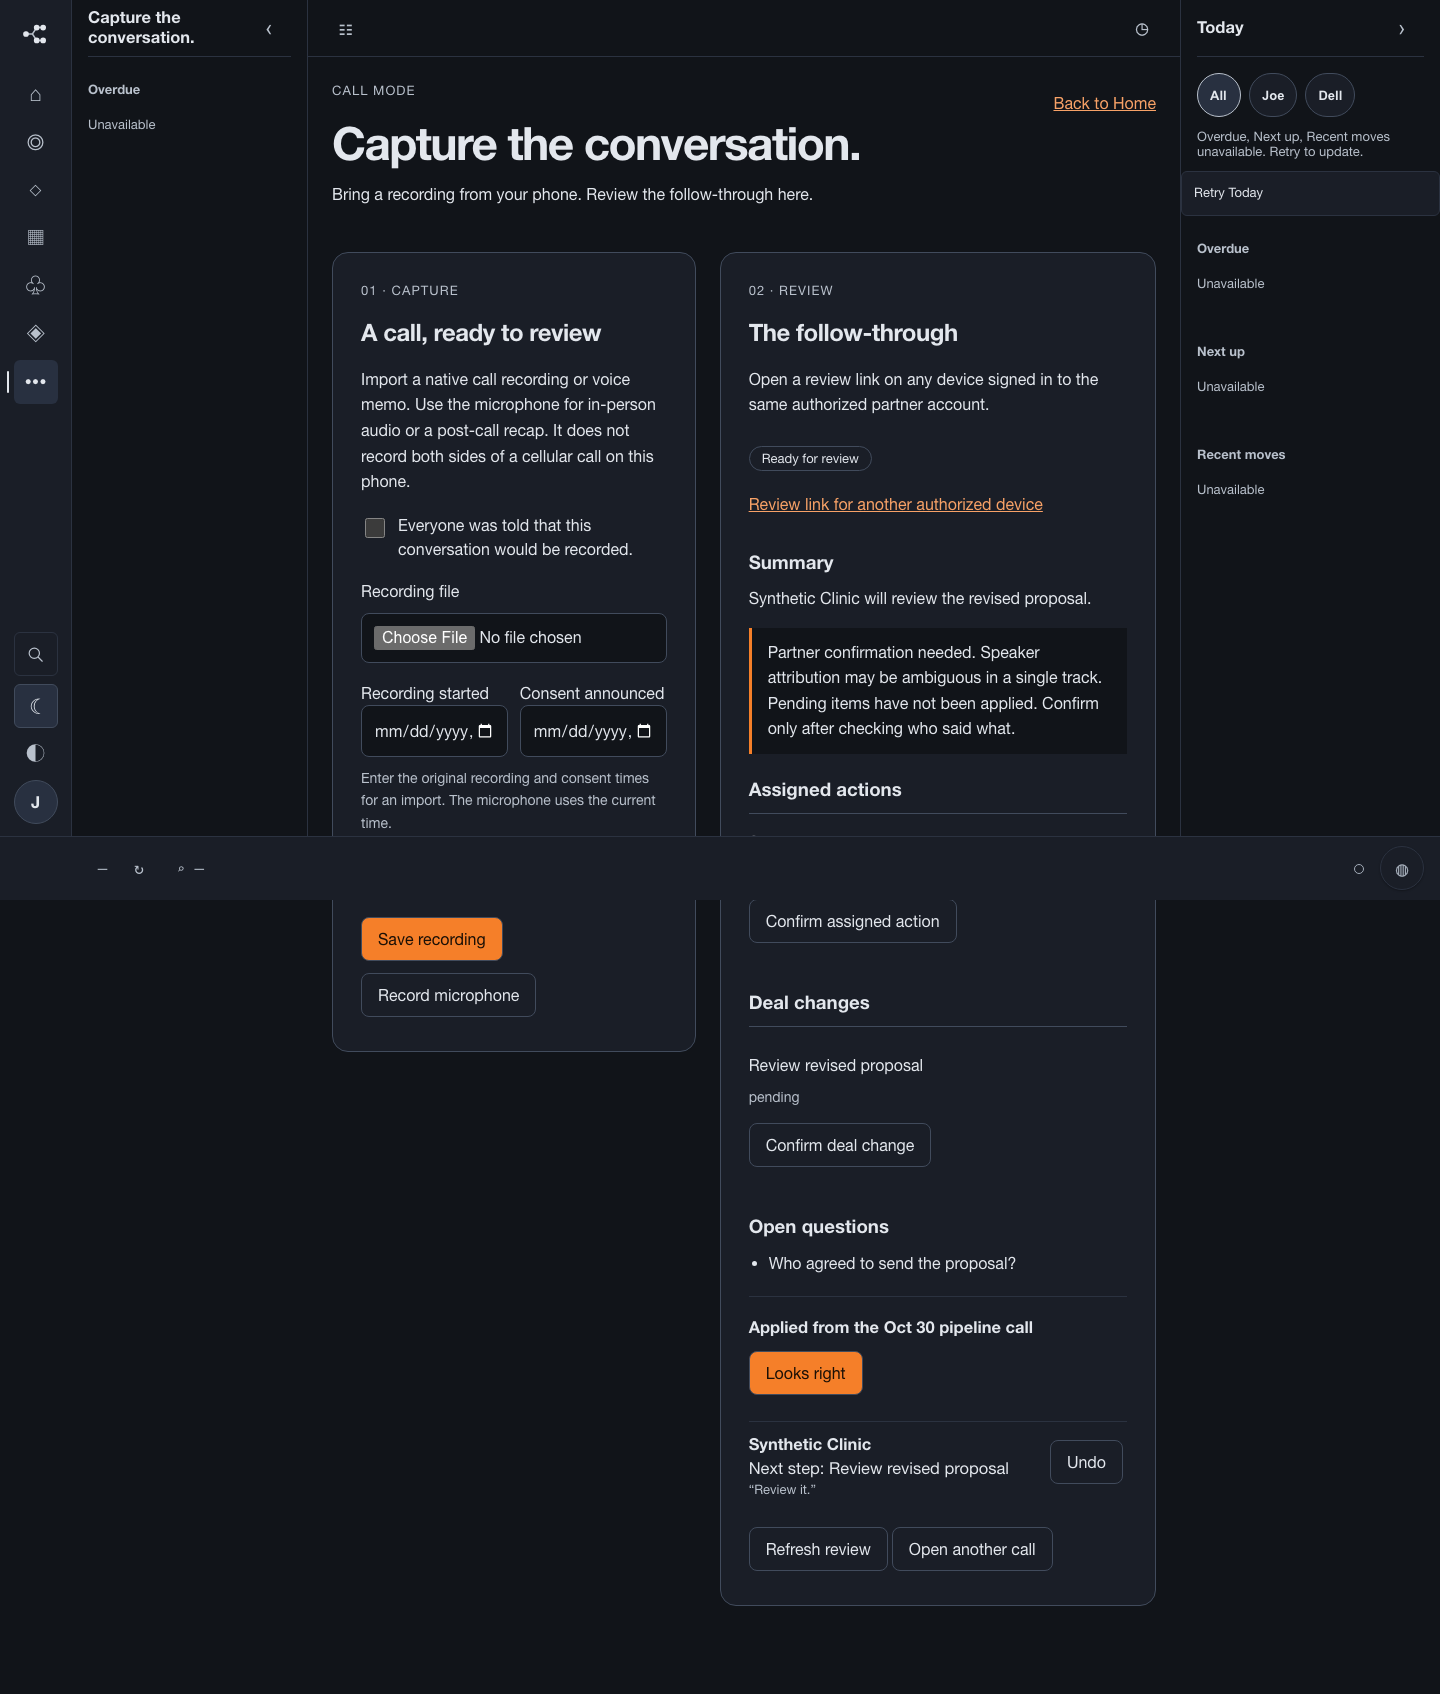
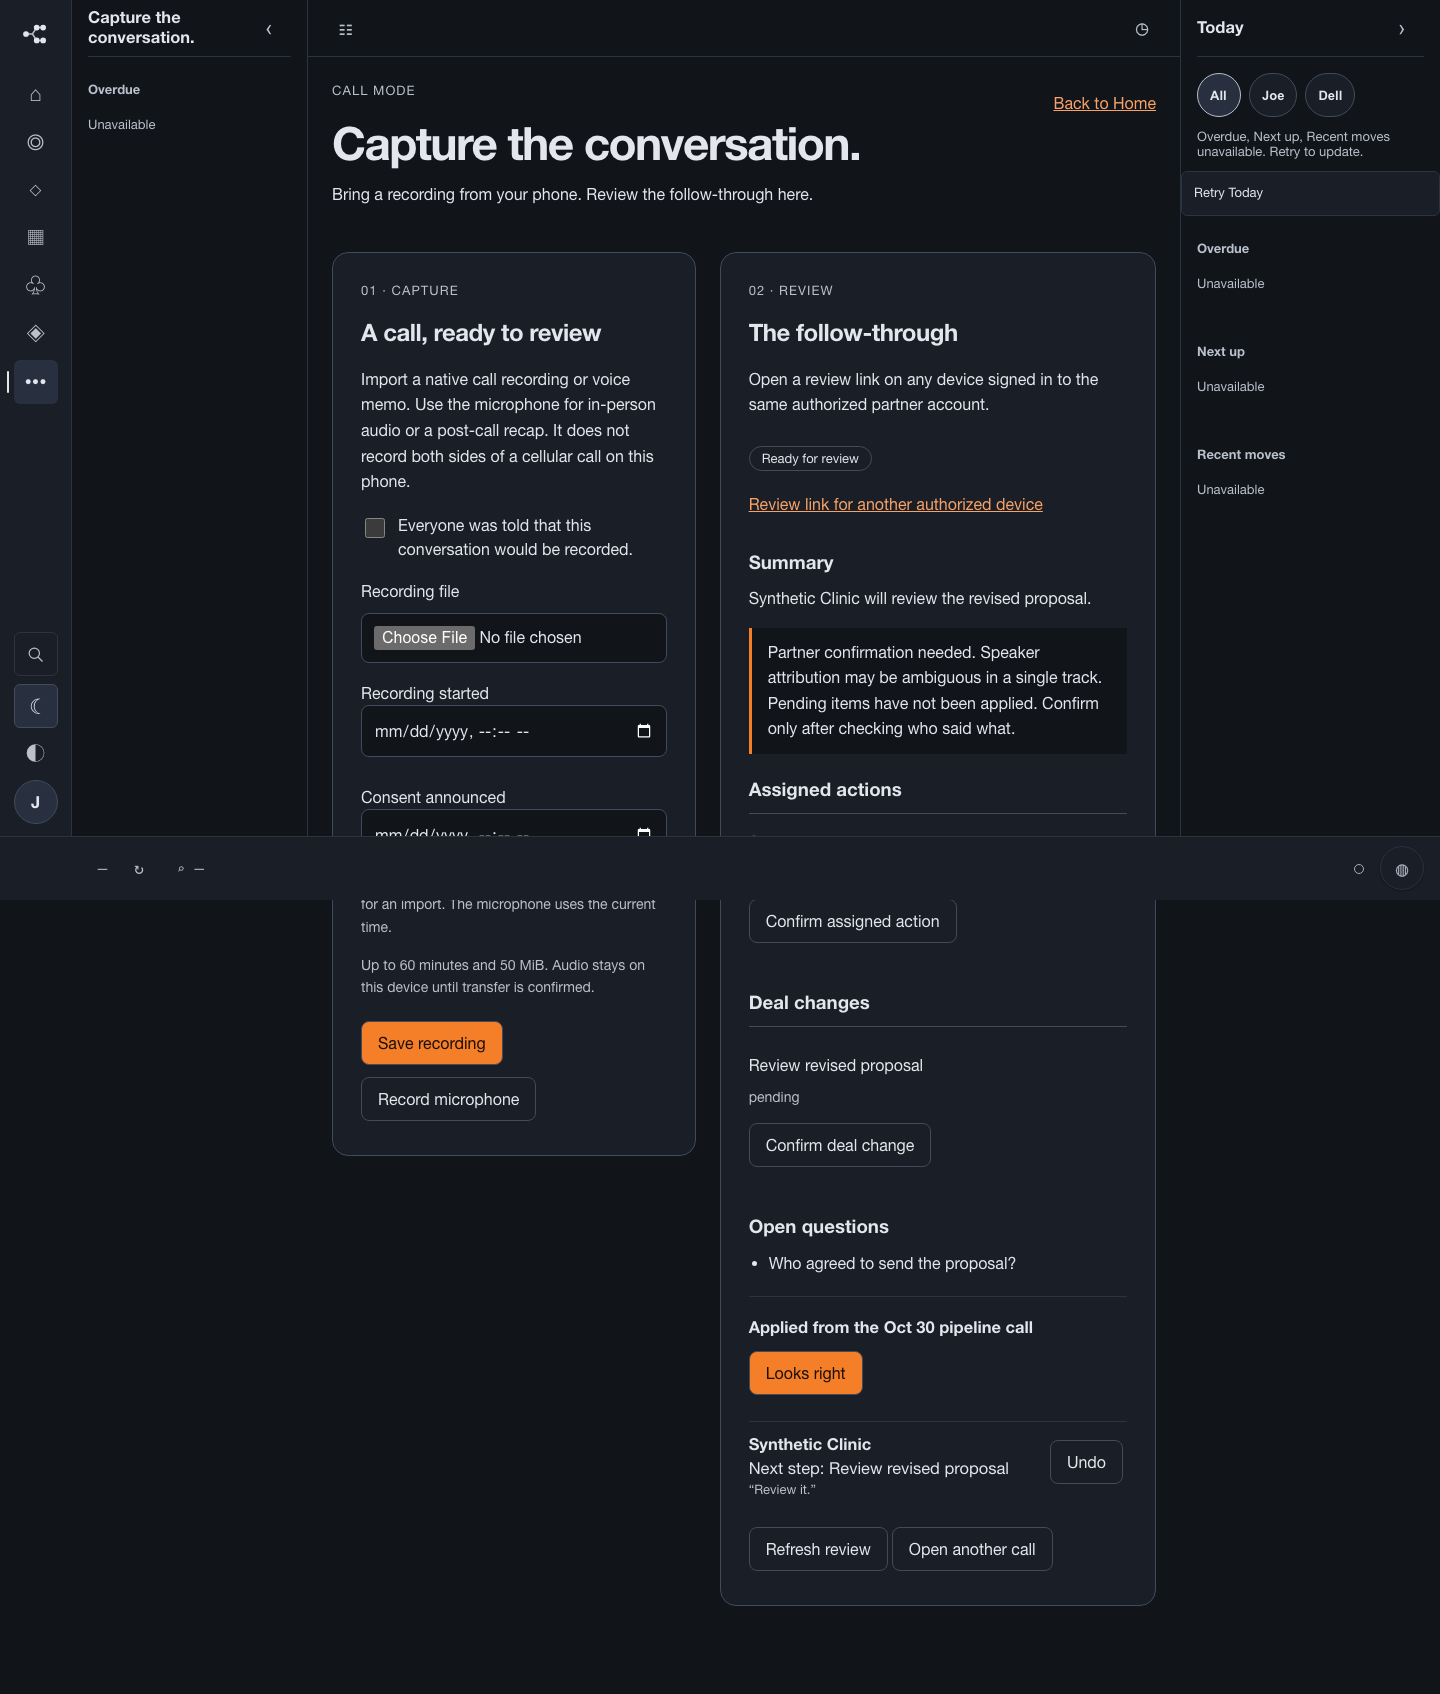
Keep imported recording times readable in the capture panel

Changed region(s): [[0.25, 0.5218, 0.4062, 0.6753], [0.25, 0.4298, 0.4688, 0.4911]]

diff --git a/css/phone-calls.css b/css/phone-calls.css
@@ -44,6 +44,5 @@ body { margin: 0; background: var(--ground); font-family: var(--font-text); }
 #phoneCalls .phone-row p { margin: 8px 0; }
 #phoneCalls .phone-inline button { flex-shrink: 0; }
 
-.phone-times { display: grid; grid-template-columns: 1fr 1fr; gap: 12px; }
+.phone-times { display: grid; grid-template-columns: 1fr; }
 .phone-times label { min-width: 0; }
-@media (max-width: 720px) { .phone-times { grid-template-columns: 1fr; gap: 0; } }
